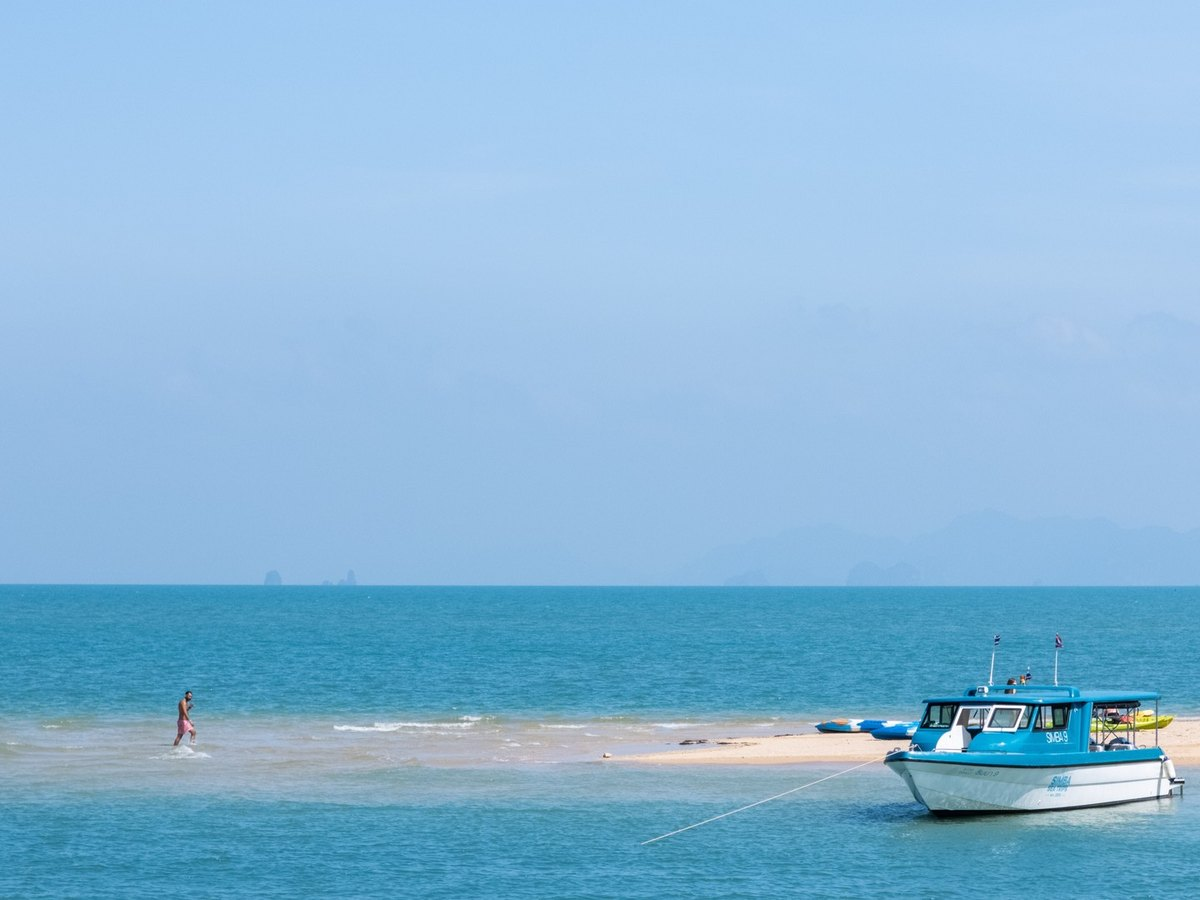
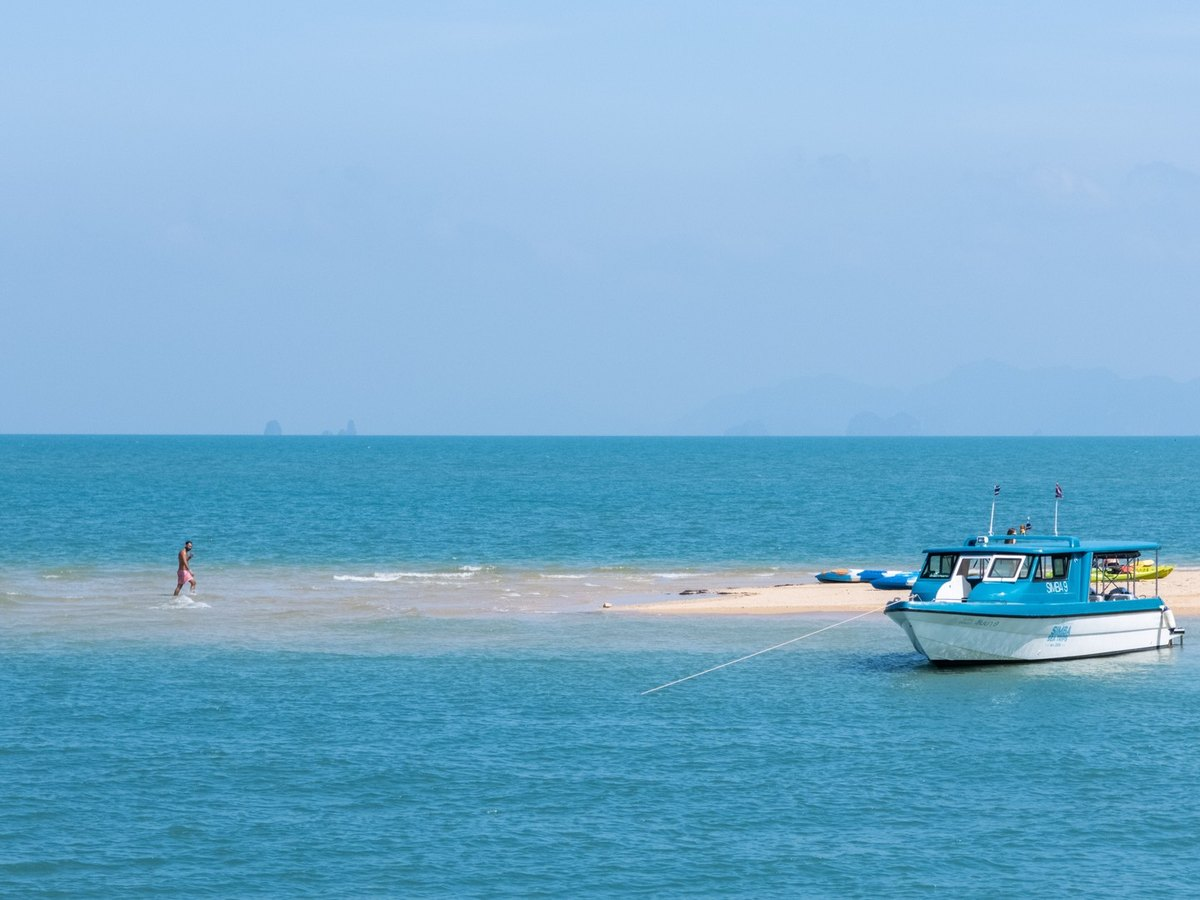
Simba Sea Trips: add +468% result, drop award year, fix gallery crops
Adds a Result section (packages selling out quickly, boats fully
booked every day, one of the best sea trip operators in Phuket) and
the +468% ROAS badge, reordering it into its correct rank among the
other verified results. Drops the specific award year from "World
Luxury Travel Awards 2025" down to just the award name. Re-crops all
three gallery photos lower so the boats are fully visible instead of
mostly empty sky.

Claude-Session: https://claude.ai/code/session_012apiprDPUvAN4apkrwhWuf

diff --git a/site/work.html b/site/work.html
@@ -257,6 +257,19 @@
         </div>
       </a>
 
+      <a href="case-study-simba-sea-trips.html" class="ldm-case reveal">
+        <div class="ldm-case-media">
+          <span class="badge">Boat Tours</span>
+          <img src="assets/img/clients/simba-sea-trips-photo.jpg" alt="Aerial view of a Simba Sea Trips speedboat carving a wake across the water" loading="lazy" width="1200" height="900">
+        </div>
+        <div class="ldm-case-body">
+          <div class="ldm-case-title"><span class="title-text">Simba Sea Trips</span> <span class="arrow">&rarr;</span></div>
+          <div class="ldm-case-industry">Performance Marketing &middot; Analytics &middot; Conversion Tracking</div>
+          <p class="ldm-case-desc">An award-winning Phuket speedboat operator running since 2005, converted reputation into a steady flow of tour bookings through full-funnel paid media.</p>
+          <div class="ldm-case-result">+468% <span class="label">ROAS</span></div>
+        </div>
+      </a>
+
       <a href="case-study-the-barrel.html" class="ldm-case reveal">
         <div class="ldm-case-media">
           <span class="badge">Lifestyle &amp; Retail</span>
@@ -675,18 +688,6 @@
           <div class="ldm-case-title"><span class="title-text">BB&B</span> <span class="arrow">&rarr;</span></div>
           <div class="ldm-case-industry">Performance Marketing &middot; Analytics &middot; Conversion Tracking</div>
           <p class="ldm-case-desc">A Bangkok-based importer of specialty beers, wines and spirits, converted interest into a steady flow of trade enquiries through full-funnel paid media.</p>
-        </div>
-      </a>
-
-      <a href="case-study-simba-sea-trips.html" class="ldm-case reveal">
-        <div class="ldm-case-media">
-          <span class="badge">Boat Tours</span>
-          <img src="assets/img/clients/simba-sea-trips-photo.jpg" alt="Aerial view of a Simba Sea Trips speedboat carving a wake across the water" loading="lazy" width="1200" height="900">
-        </div>
-        <div class="ldm-case-body">
-          <div class="ldm-case-title"><span class="title-text">Simba Sea Trips</span> <span class="arrow">&rarr;</span></div>
-          <div class="ldm-case-industry">Performance Marketing &middot; Analytics &middot; Conversion Tracking</div>
-          <p class="ldm-case-desc">An award-winning Phuket speedboat operator running since 2005, converted reputation into a steady flow of tour bookings through full-funnel paid media.</p>
         </div>
       </a>
 

diff --git a/site/case-study-simba-sea-trips.html b/site/case-study-simba-sea-trips.html
@@ -80,6 +80,7 @@
       <span class="tag">Phuket, Thailand</span>
     </div>
     <p class="lede">An award-winning Phuket speedboat operator running since 2005, converted reputation into a steady flow of tour bookings through full-funnel paid media.</p>
+    <div class="ldm-case-result" style="margin-top:8px;">+468% <span class="label">ROAS</span></div>
   </section>
 
   <!-- HERO IMAGE -->
@@ -94,7 +95,7 @@
     <div class="reveal">
       <span class="eyebrow">The Challenge</span>
       <h2 class="fs-h2" style="margin:16px 0 24px;">A multi-award tour operator still needed proof of which bookings its ads actually drove.</h2>
-      <p class="lede" style="max-width:none;">Simba Sea Trips is an Australian-owned, family-run speedboat tour operator based at Boat Lagoon Marina in Phuket, running trips to Phi Phi Islands, Phang Nga Bay and Krabi since 2005, and a winner of the World Luxury Travel Awards 2025. Even with strong reviews and awards, the operator needed a paid media system built to turn interest into a steady, trackable stream of tour bookings.</p>
+      <p class="lede" style="max-width:none;">Simba Sea Trips is an Australian-owned, family-run speedboat tour operator based at Boat Lagoon Marina in Phuket, running trips to Phi Phi Islands, Phang Nga Bay and Krabi since 2005, and a winner of the World Luxury Travel Awards. Even with strong reviews and awards, the operator needed a paid media system built to turn interest into a steady, trackable stream of tour bookings.</p>
     </div>
   </section>
 
@@ -136,6 +137,15 @@
       <div class="card-image" style="aspect-ratio:4/3;">
         <img src="assets/img/clients/simba-sea-trips-gallery-3.jpg" alt="A Simba Sea Trips boat anchored off a white-sand sandbar" loading="lazy" width="1200" height="900" style="width:100%;height:100%;object-fit:cover;">
       </div>
+    </div>
+  </section>
+
+  <!-- RESULT -->
+  <section class="ldm-section container container-narrow">
+    <div class="reveal">
+      <span class="eyebrow">The Result</span>
+      <h2 class="fs-h2" style="margin:16px 0 24px;">Simba Sea Trips has become one of the best sea trip operators in Phuket, selling out fast.</h2>
+      <p class="lede" style="max-width:none;">Tour packages sell out quickly and the boats stay fully booked every day, helping Simba Sea Trips grow into one of the best sea trip operators in Phuket.</p>
     </div>
   </section>
 

diff --git a/wordpress-theme/liam-digital-marketing/inc/case-studies.php b/wordpress-theme/liam-digital-marketing/inc/case-studies.php
@@ -416,6 +416,36 @@ function ldm_get_case_studies() {
 				array( 'img' => 'burnt-gallery-3.jpg', 'alt' => 'Guests dining at sunset at Burnt' ),
 			),
 		),
+		array(
+			'slug'              => 'simba-sea-trips',
+			'name'              => 'Simba Sea Trips',
+			'badge'             => 'Boat Tours',
+			'location'        => 'Phuket, Thailand',
+			'industry'          => 'Performance Marketing &middot; Analytics &middot; Conversion Tracking',
+			'type'              => '',
+			'desc'              => 'An award-winning Phuket speedboat operator running since 2005, converted reputation into a steady flow of tour bookings through full-funnel paid media.',
+			'result'            => '468%',
+			'img'               => 'simba-sea-trips-photo.jpg',
+			'alt'               => 'Aerial view of a Simba Sea Trips speedboat carving a wake across the water',
+			'href'              => null,
+			'hero_img'          => 'simba-sea-trips-hero.jpg',
+			'challenge_title' => 'A multi-award tour operator still needed proof of which bookings its ads actually drove.',
+			'challenge_body'  => 'Simba Sea Trips is an Australian-owned, family-run speedboat tour operator based at Boat Lagoon Marina in Phuket, running trips to Phi Phi Islands, Phang Nga Bay and Krabi since 2005, and a winner of the World Luxury Travel Awards. Even with strong reviews and awards, the operator needed a paid media system built to turn interest into a steady, trackable stream of tour bookings.',
+			'strategy_title'  => 'Full-funnel marketing built for bookings, not just clicks.',
+			'strategy_intro'  => 'Three connected workstreams built to turn Simba Sea Trips\'s reputation into qualified bookings.',
+			'strategy_steps'  => array(
+				array( 'title' => 'Paid Media', 'desc' => 'Campaigns built around real venue photography and audience targeting suited to Simba Sea Trips\' tour guests in Phuket.' ),
+				array( 'title' => 'Full-Funnel Marketing', 'desc' => 'Connecting every stage from first ad view through to tour booking, not just optimizing for clicks.' ),
+				array( 'title' => 'Conversion Rate Optimization', 'desc' => 'Ongoing testing of the enquiry and booking flow to convert more of that attention into qualified bookings.' ),
+			),
+			'gallery'         => array(
+				array( 'img' => 'simba-sea-trips-gallery-1.jpg', 'alt' => 'A Simba Sea Trips boat moored beside a sandbar with a guest wading in the shallows' ),
+				array( 'img' => 'simba-sea-trips-gallery-2.jpg', 'alt' => 'Guests aboard a Simba Sea Trips boat at sunset' ),
+				array( 'img' => 'simba-sea-trips-gallery-3.jpg', 'alt' => 'A Simba Sea Trips boat anchored off a white-sand sandbar' ),
+			),
+			'result_title'    => 'Simba Sea Trips has become one of the best sea trip operators in Phuket, selling out fast.',
+			'result_body'     => 'Tour packages sell out quickly and the boats stay fully booked every day, helping Simba Sea Trips grow into one of the best sea trip operators in Phuket.',
+		),
 		array( 'slug' => 'the-barrel', 'name' => 'The Barrel', 'badge' => 'Lifestyle &amp; Retail', 'industry' => 'Conversion Optimization &middot; Digital Strategy', 'type' => null, 'desc' => 'Rebuilding the online discovery and reservation journey for this wine merchant and restaurant across paid channels.', 'result' => null, 'img' => 'the-barrel-case.jpg', 'alt' => 'Wine display at The Barrel wine merchant', 'href' => null ),
 		array( 'slug' => 'chalong-bay-rum', 'name' => 'Chalong Bay Rum', 'badge' => 'E-commerce', 'location' => 'Phuket, Thailand', 'industry' => 'Meta Ads &middot; Google Shopping &middot; Marketing Analytics', 'type' => null, 'desc' => 'Rebuilding the tracking foundation so every dollar of ad spend for this rum distillery could be traced to revenue, not just clicks.', 'result' => null, 'img' => 'chalong-bay-rum-case.jpg', 'alt' => 'A Chalong Bay Rum cocktail served at the distillery', 'href' => null ),
 		array( 'slug' => 'raw-uluwatu', 'name' => 'Raw Uluwatu', 'badge' => 'Gym', 'location' => 'Bali, Indonesia', 'industry' => 'Lead Generation &middot; Google Ads &middot; CRM Integration', 'type' => null, 'desc' => 'Replacing generic form-fills with a qualified-lead pipeline for gym memberships, synced directly into the studio\'s CRM.', 'result' => null, 'img' => 'raw-uluwatu-case.jpg', 'alt' => 'Training floor at Raw Uluwatu gym', 'href' => null ),
@@ -1147,34 +1177,6 @@ function ldm_get_case_studies() {
 				array( 'title' => 'Paid Media', 'desc' => 'Campaigns built around real venue photography and audience targeting suited to BB&B\'s trade customers across Thailand.' ),
 				array( 'title' => 'Full-Funnel Marketing', 'desc' => 'Connecting every stage from first ad view through to trade enquiry, not just optimizing for clicks.' ),
 				array( 'title' => 'Conversion Rate Optimization', 'desc' => 'Ongoing testing of the enquiry and booking flow to convert more of that attention into qualified trade enquiries.' ),
-			),
-		),
-		array(
-			'slug'              => 'simba-sea-trips',
-			'name'              => 'Simba Sea Trips',
-			'badge'             => 'Boat Tours',
-			'location'        => 'Phuket, Thailand',
-			'industry'          => 'Performance Marketing &middot; Analytics &middot; Conversion Tracking',
-			'type'              => '',
-			'desc'              => 'An award-winning Phuket speedboat operator running since 2005, converted reputation into a steady flow of tour bookings through full-funnel paid media.',
-			'result'            => null,
-			'img'               => 'simba-sea-trips-photo.jpg',
-			'alt'               => 'Aerial view of a Simba Sea Trips speedboat carving a wake across the water',
-			'href'              => null,
-			'hero_img'          => 'simba-sea-trips-hero.jpg',
-			'challenge_title' => 'A multi-award tour operator still needed proof of which bookings its ads actually drove.',
-			'challenge_body'  => 'Simba Sea Trips is an Australian-owned, family-run speedboat tour operator based at Boat Lagoon Marina in Phuket, running trips to Phi Phi Islands, Phang Nga Bay and Krabi since 2005, and a winner of the World Luxury Travel Awards 2025. Even with strong reviews and awards, the operator needed a paid media system built to turn interest into a steady, trackable stream of tour bookings.',
-			'strategy_title'  => 'Full-funnel marketing built for bookings, not just clicks.',
-			'strategy_intro'  => 'Three connected workstreams built to turn Simba Sea Trips\'s reputation into qualified bookings.',
-			'strategy_steps'  => array(
-				array( 'title' => 'Paid Media', 'desc' => 'Campaigns built around real venue photography and audience targeting suited to Simba Sea Trips\' tour guests in Phuket.' ),
-				array( 'title' => 'Full-Funnel Marketing', 'desc' => 'Connecting every stage from first ad view through to tour booking, not just optimizing for clicks.' ),
-				array( 'title' => 'Conversion Rate Optimization', 'desc' => 'Ongoing testing of the enquiry and booking flow to convert more of that attention into qualified bookings.' ),
-			),
-			'gallery'         => array(
-				array( 'img' => 'simba-sea-trips-gallery-1.jpg', 'alt' => 'A Simba Sea Trips boat moored beside a sandbar with a guest wading in the shallows' ),
-				array( 'img' => 'simba-sea-trips-gallery-2.jpg', 'alt' => 'Guests aboard a Simba Sea Trips boat at sunset' ),
-				array( 'img' => 'simba-sea-trips-gallery-3.jpg', 'alt' => 'A Simba Sea Trips boat anchored off a white-sand sandbar' ),
 			),
 		),
 		array(
